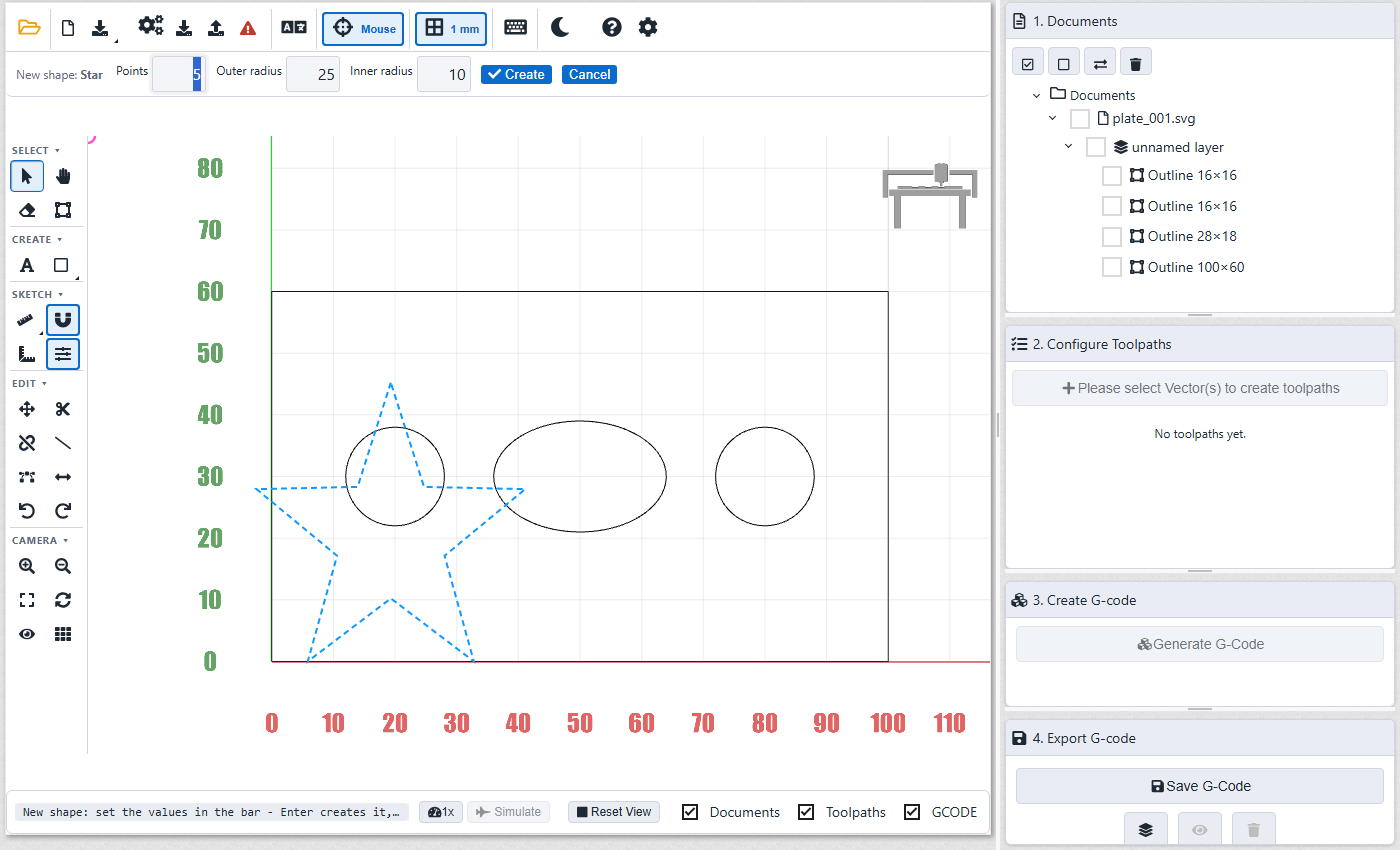
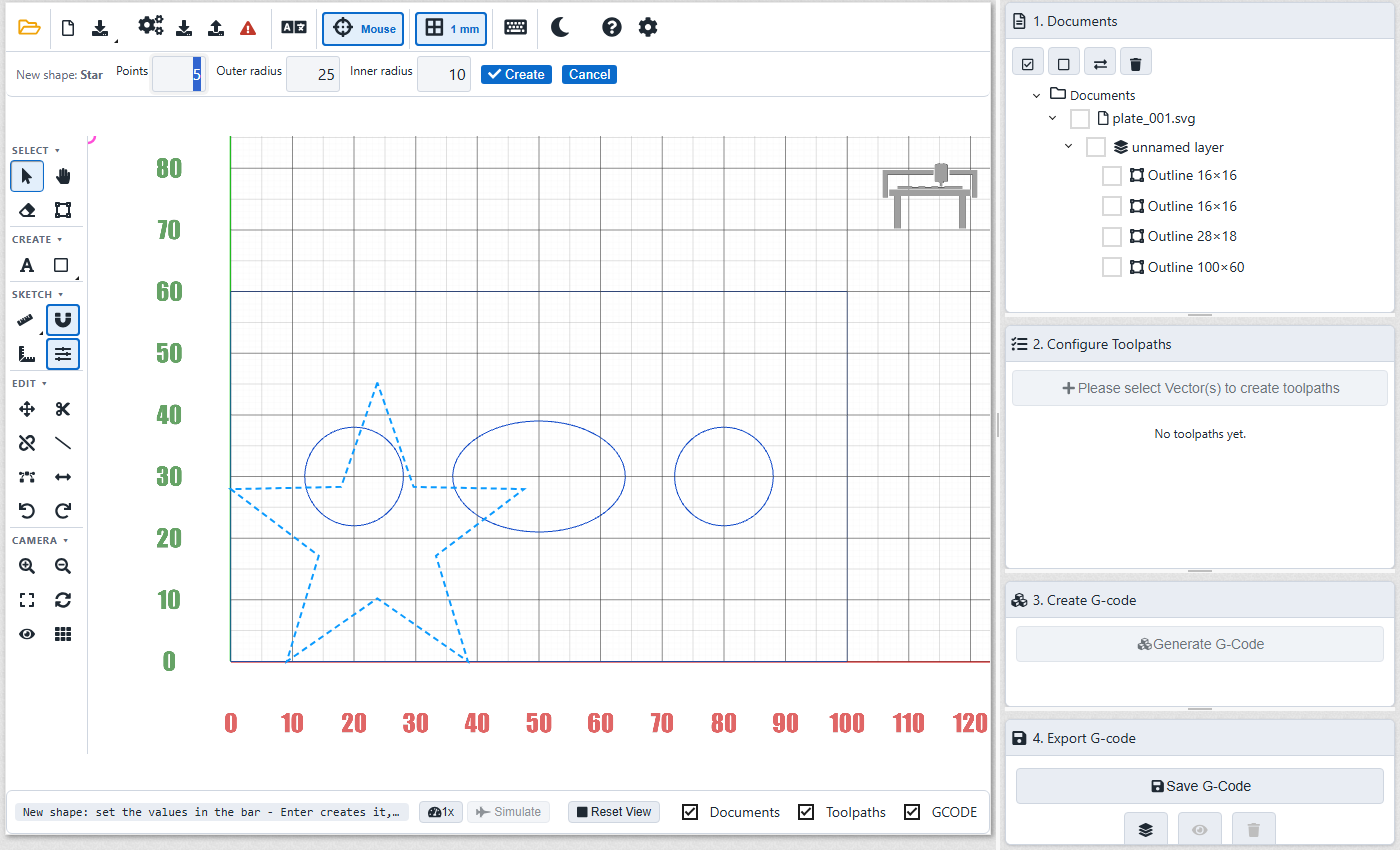
Swarfly 1.18.2: drawing lines are blue, hover orange

diff --git a/test/e2e/editor-select.spec.js b/test/e2e/editor-select.spec.js
@@ -88,7 +88,7 @@ test('window drawn right to left selects everything it touches', async () => {
 
 test('a crossing window that reaches nothing selects nothing; the window turns solid or dashed with the direction', async () => {
 	await refit();
-	await page.evaluate(() => viewZoomOut());   // the tool panel covers the left edge of the drawing area: keep the window start clear of it
+	await page.evaluate(() => { viewZoomOut(); viewZoomOut(); viewZoomOut(); });   // keep the window start (a little left of the drawing) inside the drawing area
 	await drag([100, 40], [90, 30]);
 	expect(await selectedStarts()).toEqual([]);
 	const a = await toClient(-5, 25), b = await toClient(70, -5);

diff --git a/js/theme.js b/js/theme.js
@@ -3,7 +3,7 @@ let ThemeData = {
     "light": {
       DESCRIPTION: 'Light Mode',
       ICON: 'sun',
-      CAM_DOC_DEFAULT_COLOR: 0x000000,
+      CAM_DOC_DEFAULT_COLOR: 0x0d47c9,   // 1.18.2: drawing lines are blue, so they stand out from the grey grid
       SPRITE_OPACITY: 0.6,
       SKY_TOP_COLOR: 0x0077ff,
       SKY_BOTTOM_COLOR: 0xffffff,
@@ -49,7 +49,7 @@ let ThemeData = {
     "dark": {
       DESCRIPTION: 'Dark Mode',
       ICON: 'moon',
-      CAM_DOC_DEFAULT_COLOR: 0xffffff,
+      CAM_DOC_DEFAULT_COLOR: 0x6fb3ff,
       SPRITE_OPACITY: 0.8,
       SKY_TOP_COLOR: 0x333333,
       SKY_BOTTOM_COLOR: 0x222222,

diff --git a/js/advanced-cam-doctree.js b/js/advanced-cam-doctree.js
@@ -195,7 +195,7 @@ function animateTree() {
         selectCount++
       } else if (child.type == "Line" && !child.userData.selected) {
         if (child.userData.hover) {
-          child.material.color.setRGB(0, 0.48, 1);
+          child.material.color.setRGB(1, 0.6, 0);        // 1.18.2: the objects are blue now, so the line under the mouse is orange
         } else {
           var defaultcolor = new THREE.Color(Theme.CAM_DOC_DEFAULT_COLOR);
           child.material.color = defaultcolor

diff --git a/CHANGELOG.md b/CHANGELOG.md
@@ -6,6 +6,8 @@ Every release must have an entry here that matches the version in `package.json`
 ## [1.18.2] - 2026-11-07
 ### Added
 - **Grid that follows the zoom**: far away you see the 10 mm lines (light); coming closer they turn darker, then 5 mm lines fade in (grey), and zoomed in a lot the faint 1 mm lines appear as well. A level shows when its lines are far enough apart on the screen, so the grid never becomes a grey wash.
+### Changed
+- **Drawing lines are blue** (light blue in the dark theme) instead of black / white, so they stand apart from the grey grid. The line under the mouse is orange now (it was blue), a selected line stays red.
 ### Fixed
 - A drawing line that lay on a 10 mm grid line (e.g. the edge of a 30 x 20 rectangle) could not be seen: the grid sits a hair below the drawing plane now and the 10 mm lines are mid-grey instead of nearly black, so the drawing always wins.
 - No flash of the old ribbon layout on F5: the toolbar and the tool panel stay hidden until they are arranged.
